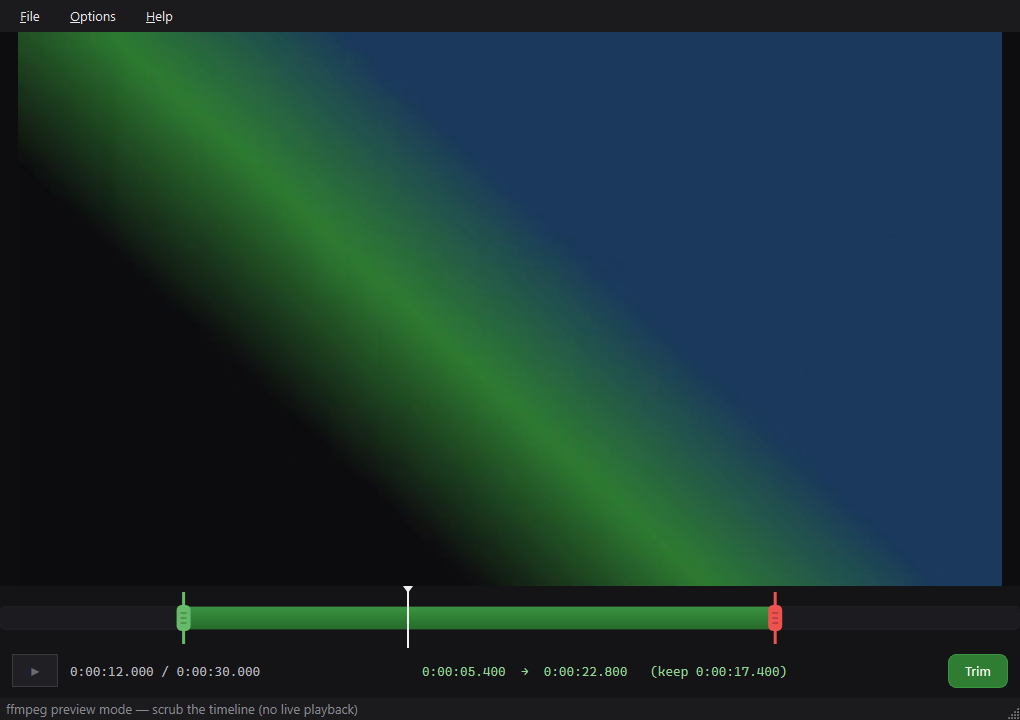
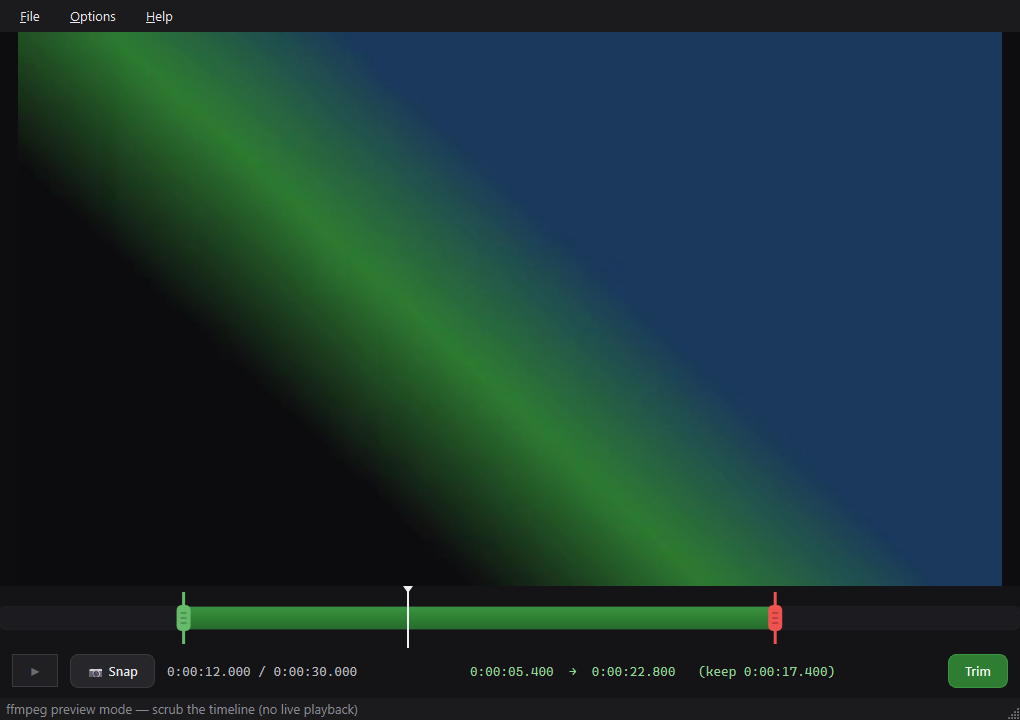
Add snapshot with crop and copy-to-clipboard (v1.2.0)
S key or Snap button grabs the current frame at native resolution
via ffmpeg (correct colors for DV/HDR content), opens a dialog with
drag-to-crop, copy to clipboard, and save-as-PNG. Screenshot in
README refreshed.

Changed region(s): [[0.4255, 0.9167, 0.8206, 0.9472], [0.0608, 0.9167, 0.3647, 0.9472]]

diff --git a/mp4trim.py b/mp4trim.py
@@ -22,16 +22,16 @@ from PySide6.QtGui import (
     QAction, QColor, QFont, QImage, QKeySequence, QLinearGradient, QPainter,
     QPainterPath, QPixmap, QPolygonF,
 )
-from PySide6.QtCore import QPointF
+from PySide6.QtCore import QPoint, QPointF, QRect
 from PySide6.QtGui import QIcon
 from PySide6.QtMultimedia import QAudioOutput, QMediaPlayer
 from PySide6.QtMultimediaWidgets import QVideoWidget
 from PySide6.QtWidgets import (
-    QApplication, QFileDialog, QHBoxLayout, QLabel, QMainWindow, QMessageBox,
-    QPushButton, QStackedWidget, QVBoxLayout, QWidget,
+    QApplication, QDialog, QFileDialog, QHBoxLayout, QLabel, QMainWindow,
+    QMessageBox, QPushButton, QStackedWidget, QVBoxLayout, QWidget,
 )
 
-APP_VERSION = "1.1.0"
+APP_VERSION = "1.2.0"
 
 
 def res_path(name: str) -> Path:
@@ -91,10 +91,11 @@ def probe_duration_ms(path: str) -> int:
     return int(float(json.loads(out.stdout)["format"]["duration"]) * 1000)
 
 
-def grab_frame(path: str, ms: int) -> QImage | None:
+def grab_frame(path: str, ms: int, native: bool = False) -> QImage | None:
+    scale = [] if native else ["-vf", "scale=960:-2"]
     out = subprocess.run(
         ["ffmpeg", "-v", "quiet", "-ss", f"{ms / 1000:.3f}", "-i", path,
-         "-frames:v", "1", "-vf", "scale=960:-2", "-f", "image2pipe",
+         "-frames:v", "1", *scale, "-f", "image2pipe",
          "-vcodec", "bmp", "-"],
         capture_output=True, creationflags=CREATE_NO_WINDOW,
     )
@@ -240,6 +241,123 @@ class Timeline(QWidget):
         p.end()
 
 
+class SnapshotView(QWidget):
+    """Shows a frame fit-to-window; drag a rectangle to select a crop."""
+
+    def __init__(self, image: QImage):
+        super().__init__()
+        self.image = image
+        self.sel: QRect | None = None  # crop rect in image coordinates
+        self._anchor: QPoint | None = None
+        self.setMinimumSize(560, 340)
+        self.setCursor(Qt.CrossCursor)
+
+    def _fit(self):
+        iw, ih = self.image.width(), self.image.height()
+        s = min(self.width() / iw, self.height() / ih)
+        dw, dh = iw * s, ih * s
+        return QRectF((self.width() - dw) / 2, (self.height() - dh) / 2,
+                      dw, dh), s
+
+    def _to_img(self, pos) -> QPoint:
+        r, s = self._fit()
+        x = (pos.x() - r.left()) / s
+        y = (pos.y() - r.top()) / s
+        return QPoint(int(min(max(x, 0), self.image.width())),
+                      int(min(max(y, 0), self.image.height())))
+
+    def mousePressEvent(self, e):
+        self._anchor = self._to_img(e.position())
+        self.sel = None
+        self.update()
+
+    def mouseMoveEvent(self, e):
+        if self._anchor is not None:
+            self.sel = QRect(self._anchor, self._to_img(e.position())).normalized()
+            self.update()
+
+    def mouseReleaseEvent(self, _):
+        self._anchor = None
+        if self.sel and (self.sel.width() < 4 or self.sel.height() < 4):
+            self.sel = None
+        self.update()
+
+    def paintEvent(self, _):
+        p = QPainter(self)
+        p.fillRect(self.rect(), QColor("#0d0d0f"))
+        r, s = self._fit()
+        p.drawImage(r, self.image)
+        if self.sel:
+            sv = QRectF(r.left() + self.sel.x() * s, r.top() + self.sel.y() * s,
+                        self.sel.width() * s, self.sel.height() * s)
+            shade = QPainterPath()
+            shade.addRect(QRectF(self.rect()))
+            shade.addRect(sv)
+            p.fillPath(shade, QColor(0, 0, 0, 150))  # dim outside selection
+            p.setPen(QColor("#66bb6a"))
+            p.drawRect(sv)
+            p.drawText(sv.adjusted(6, 4, 0, 0),
+                       Qt.AlignTop | Qt.AlignLeft,
+                       f"{self.sel.width()}×{self.sel.height()}")
+        p.end()
+
+
+class SnapshotDialog(QDialog):
+    def __init__(self, image: QImage, default_path: str, parent=None):
+        super().__init__(parent)
+        self.setWindowTitle("Snapshot — drag to crop")
+        self.resize(900, 580)
+        self.default_path = default_path
+        self.view = SnapshotView(image)
+
+        self.info = QLabel(f"{image.width()}×{image.height()}  —  "
+                           "drag to crop, or copy the full frame")
+        btn_copy = QPushButton("Copy to clipboard")
+        btn_copy.setObjectName("accent")
+        btn_copy.clicked.connect(self.copy)
+        btn_save = QPushButton("Save PNG…")
+        btn_save.clicked.connect(self.save)
+        btn_reset = QPushButton("Reset crop")
+        btn_reset.clicked.connect(self.reset)
+        btn_close = QPushButton("Close")
+        btn_close.clicked.connect(self.accept)
+
+        row = QHBoxLayout()
+        row.addWidget(self.info)
+        row.addStretch()
+        for b in (btn_reset, btn_save, btn_copy, btn_close):
+            row.addWidget(b)
+
+        root = QVBoxLayout(self)
+        root.addWidget(self.view, stretch=1)
+        root.addLayout(row)
+
+    def cropped(self) -> QImage:
+        v = self.view
+        return v.image.copy(v.sel) if v.sel else v.image
+
+    def copy(self):
+        img = self.cropped()
+        QApplication.clipboard().setImage(img)
+        self.info.setText(f"Copied {img.width()}×{img.height()} to clipboard")
+
+    def save(self):
+        path, _ = QFileDialog.getSaveFileName(
+            self, "Save snapshot", self.default_path, "PNG (*.png)")
+        if path:
+            img = self.cropped()
+            img.save(path, "PNG")
+            self.info.setText(f"Saved {img.width()}×{img.height()} → "
+                              f"{Path(path).name}")
+
+    def reset(self):
+        self.view.sel = None
+        self.view.update()
+        img = self.view.image
+        self.info.setText(f"{img.width()}×{img.height()}  —  "
+                          "drag to crop, or copy the full frame")
+
+
 class Trimmer(QMainWindow):
     def __init__(self):
         super().__init__()
@@ -284,6 +402,11 @@ class Trimmer(QMainWindow):
         self.btn_play.clicked.connect(self.play_pause)
         self.btn_play.setFocusPolicy(Qt.NoFocus)
 
+        self.btn_snap = QPushButton("📷 Snap")
+        self.btn_snap.setEnabled(False)
+        self.btn_snap.clicked.connect(self.snapshot)
+        self.btn_snap.setFocusPolicy(Qt.NoFocus)
+
         self.lbl_pos = QLabel("--:--:--.---")
         self.lbl_pos.setObjectName("mono")
         self.lbl_range = QLabel("")
@@ -297,6 +420,7 @@ class Trimmer(QMainWindow):
         row.setContentsMargins(12, 4, 12, 10)
         row.setSpacing(12)
         row.addWidget(self.btn_play)
+        row.addWidget(self.btn_snap)
         row.addWidget(self.lbl_pos)
         row.addStretch()
         row.addWidget(self.lbl_range)
@@ -326,9 +450,11 @@ class Trimmer(QMainWindow):
                            triggered=self.open_dialog)
         act_trim = QAction("&Trim / Export", self, shortcut="Ctrl+E",
                            triggered=self.trim)
+        act_snap = QAction("&Snapshot / Crop…", self, shortcut="S",
+                           triggered=self.snapshot)
         act_exit = QAction("E&xit", self, shortcut=QKeySequence.Quit,
                            triggered=self.close)
-        m_file.addActions([act_open, act_trim])
+        m_file.addActions([act_open, act_trim, act_snap])
         m_file.addSeparator()
         m_file.addAction(act_exit)
 
@@ -378,6 +504,7 @@ class Trimmer(QMainWindow):
         self.setWindowTitle(f"mp4trim — {Path(path).name}")
 
         self.fallback = self.act_ffpreview.isChecked()
+        self.btn_snap.setEnabled(True)
         if self.fallback:
             self.enter_fallback(silent=True)
         else:
@@ -452,6 +579,18 @@ class Trimmer(QMainWindow):
             self.frame_label.setPixmap(QPixmap.fromImage(img).scaled(
                 self.frame_label.size(), Qt.KeepAspectRatio,
                 Qt.SmoothTransformation))
+
+    def snapshot(self):
+        if not self.path:
+            return
+        self.player.pause()
+        img = grab_frame(self.path, self.position, native=True)
+        if img is None:
+            QMessageBox.warning(self, "mp4trim", "Could not grab this frame.")
+            return
+        default = str(Path(self.path).with_name(
+            f"{Path(self.path).stem}_{self.position // 1000}s.png"))
+        SnapshotDialog(img, default, self).exec()
 
     def resizeEvent(self, e):
         super().resizeEvent(e)

diff --git a/setup.py b/setup.py
@@ -29,7 +29,7 @@ bdist_msi_options = {
 
 setup(
     name="mp4trim",
-    version="1.1.0",
+    version="1.2.0",
     description="Simple MP4 trimmer - stream copy, hybrid DV/HDR10 safe",
     options={"build_exe": build_exe_options, "bdist_msi": bdist_msi_options},
     executables=[

diff --git a/README.md b/README.md
@@ -31,6 +31,9 @@ Dolby Vision metadata. mp4trim avoids both:
 - **Trimming** is a pure stream copy (`-map 0 -c copy`). No re-encode,
   so every track and all DV/HDR10 metadata survive bit-exact. A
   half-hour cut takes seconds.
+- **Snapshots**: `S` grabs the current frame at native resolution
+  (decoded by ffmpeg, so colors are right), then drag to crop and copy
+  to clipboard or save as PNG.
 
 ## How the timeline works
 
@@ -54,6 +57,7 @@ lands next to the source as `name_trim_START-END.mp4`.
 | Key | Action |
 | --- | --- |
 | `Space` | play / pause |
+| `S` | snapshot current frame → crop → copy to clipboard / save PNG |
 | `Left` / `Right` | step 1 s (`Shift` = 10 s) |
 | `Enter` | trim |
 | `Ctrl+O` | open — drag & drop works too |
